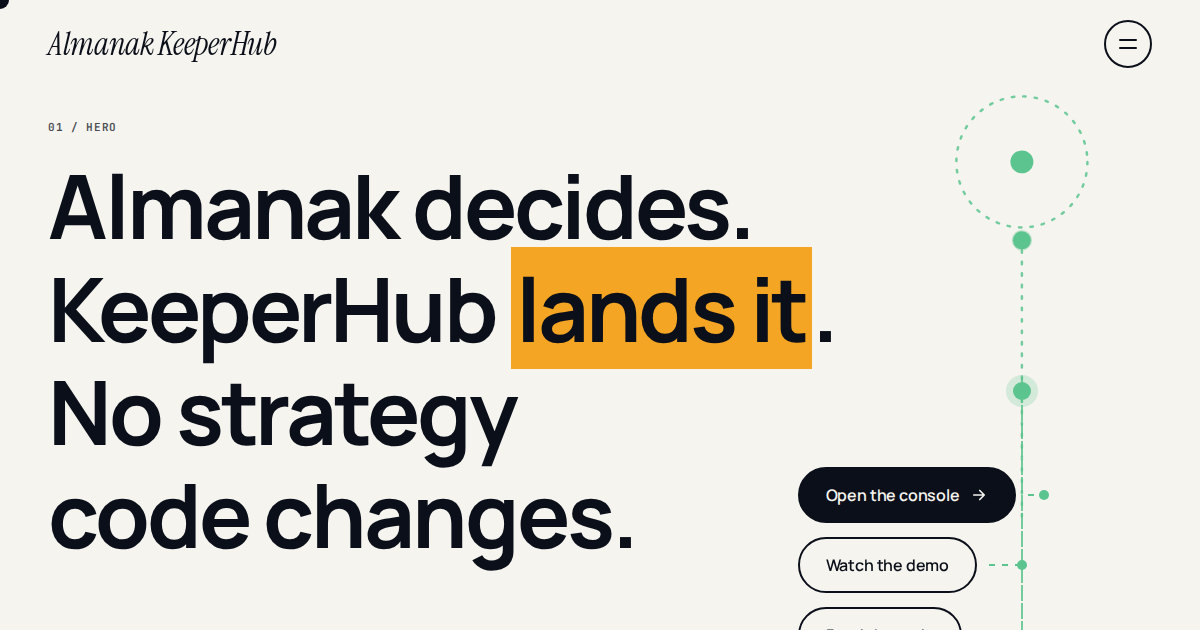
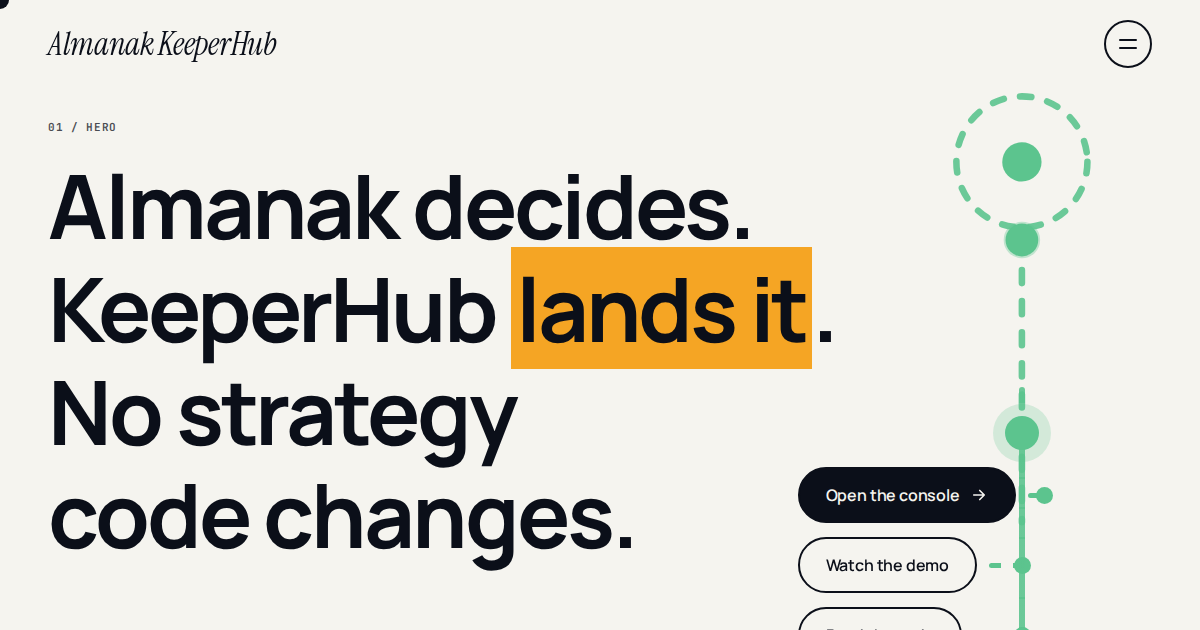
The dashed track at twice the size, and the hero block a little higher
Track 6px with 16px dashes, marker 34px with its halo, the hero pin at an 8px stroke with a bigger origin and
dot, stubs 5px with 17px end dots, the lifecycle route to match. The hero's content sits 56px higher. README
hero and social image retaken.

diff --git a/almanak_keeperhub/console/site.html b/almanak_keeperhub/console/site.html
@@ -221,16 +221,16 @@
   @keyframes draw{to{stroke-dashoffset:0}}
 
   /* ---- hero ---- */
-  .hero{min-height:100vh;display:grid;align-content:end;padding-top:120px;padding-bottom:48px;position:relative}
+  .hero{min-height:100vh;display:grid;align-content:end;padding-top:120px;padding-bottom:104px;position:relative}
   .hero .g{align-items:end}
   .hero .g>*{grid-row:1}
   .hero h1{max-width:none}
   .hero .stops{grid-column:9/span 4;align-self:end;width:63.2%;display:flex;flex-direction:column;gap:14px;margin-bottom:6px;position:relative;z-index:1}
-  .hero .stops::before{content:"";position:absolute;right:-1px;top:-80px;bottom:22px;width:2px;background:repeating-linear-gradient(180deg,var(--mint) 0 8px,transparent 8px 18px);opacity:.85;z-index:-1}
+  .hero .stops::before{content:"";position:absolute;right:-3px;top:-80px;bottom:22px;width:6px;border-radius:3px;background:repeating-linear-gradient(180deg,var(--mint) 0 16px,transparent 16px 30px);opacity:.9;z-index:-1}
   .hero .stop{display:flex;align-items:center}
   .hero .stop .btn{flex:0 0 auto}
-  .hero .stop .stub{flex:1;height:2px;min-width:16px;background:repeating-linear-gradient(90deg,var(--mint) 0 6px,transparent 6px 13px);margin-left:12px;position:relative}
-  .hero .stop .stub::after{content:"";position:absolute;right:-5px;top:-4px;width:10px;height:10px;border-radius:999px;background:var(--mint)}
+  .hero .stop .stub{flex:1;height:5px;min-width:16px;border-radius:3px;background:repeating-linear-gradient(90deg,var(--mint) 0 12px,transparent 12px 24px);margin-left:12px;position:relative}
+  .hero .stop .stub::after{content:"";position:absolute;right:-9px;top:-6px;width:17px;height:17px;border-radius:999px;background:var(--mint)}
   .hero .lede{margin-top:28px;color:var(--muted);font-size:var(--body-lg);line-height:1.5;max-width:52ch}
   .pin{grid-column:10/span 3;justify-self:center;align-self:start;width:min(200px,18vw,26vh);margin-top:-40px}
   .pin svg{width:100%;height:auto;display:block;overflow:visible}
@@ -241,10 +241,10 @@
   @media (max-width:1024px){ .pin{display:none} .cue{display:none} .hero{min-height:auto;padding-top:132px} .hero .stops{grid-column:1/-1;grid-row:2;align-self:start;width:auto;flex-direction:row;flex-wrap:wrap;gap:12px;margin-top:8px} .hero .stops::before{display:none} .hero .stop .stub{display:none} }
 
   /* ---- the connector spine crossing between sections ---- */
-  .spine-v{position:absolute;width:18px;z-index:1;pointer-events:none;left:calc(var(--margin) + (100% - 2 * var(--margin)) * .882 - 9px);--p:0}
-  .spine-v::before{content:"";position:absolute;left:8px;top:0;bottom:0;width:2px;background:repeating-linear-gradient(180deg,var(--mint) 0 8px,transparent 8px 18px);opacity:.85}
-  .spine-v::after{content:"";position:absolute;left:0;top:calc(var(--p) * 100%);width:18px;height:18px;margin-top:-9px;border-radius:999px;background:var(--mint);box-shadow:0 0 0 7px rgba(92,196,142,.22);transition:top 900ms cubic-bezier(.16,1,.3,1)}
-  .spine-v.left{left:calc(var(--margin) + (100% - 2 * var(--margin)) * .315 - 9px)}
+  .spine-v{position:absolute;width:34px;z-index:1;pointer-events:none;left:calc(var(--margin) + (100% - 2 * var(--margin)) * .882 - 17px);--p:0}
+  .spine-v::before{content:"";position:absolute;left:14px;top:0;bottom:0;width:6px;border-radius:3px;background:repeating-linear-gradient(180deg,var(--mint) 0 16px,transparent 16px 30px);opacity:.9}
+  .spine-v::after{content:"";position:absolute;left:0;top:calc(var(--p) * 100%);width:34px;height:34px;margin-top:-17px;border-radius:999px;background:var(--mint);box-shadow:0 0 0 12px rgba(92,196,142,.22);transition:top 900ms cubic-bezier(.16,1,.3,1)}
+  .spine-v.left{left:calc(var(--margin) + (100% - 2 * var(--margin)) * .315 - 17px)}
   @media (max-width:1024px){ .spine-v{display:none} }
 
   /* ---- the problem: statement plus a sticky stack of full-height panels ---- */
@@ -303,9 +303,9 @@
   .diagram svg{width:100%;height:auto;display:block}
   .grid3{display:grid;grid-template-columns:repeat(3,1fr);gap:var(--gutter)}
   .route{position:relative}
-  .route::before{content:"";position:absolute;left:6%;right:6%;top:50%;height:2px;margin-top:-1px;background:repeating-linear-gradient(90deg,var(--mint) 0 8px,transparent 8px 18px);opacity:.85}
+  .route::before{content:"";position:absolute;left:6%;right:6%;top:50%;height:6px;margin-top:-3px;border-radius:3px;background:repeating-linear-gradient(90deg,var(--mint) 0 16px,transparent 16px 30px);opacity:.9}
   .route>.mask{position:relative;z-index:1}
-  @media (max-width:860px){ .route::before{left:50%;right:auto;top:4%;bottom:4%;height:auto;width:2px;margin:0 0 0 -1px;background:repeating-linear-gradient(180deg,var(--mint) 0 8px,transparent 8px 18px)} }
+  @media (max-width:860px){ .route::before{left:50%;right:auto;top:4%;bottom:4%;height:auto;width:6px;margin:0 0 0 -3px;background:repeating-linear-gradient(180deg,var(--mint) 0 16px,transparent 16px 30px)} }
   #failures-grid{grid-template-columns:repeat(auto-fit,minmax(300px,1fr))} .grid2{display:grid;grid-template-columns:1fr 1fr;gap:var(--gutter)}
   @media (max-width:860px){ .grid3,.grid2{grid-template-columns:1fr} }
   .sec-head{margin-bottom:40px;max-width:20ch}
@@ -377,11 +377,11 @@
       <div class="pin" id="pin">
         <svg viewBox="0 0 200 560" fill="none" aria-hidden="true">
           <defs><path id="pin-track" d="M100 194 V540"/></defs>
-          <circle cx="100" cy="100" r="80" stroke="#5CC48E" stroke-width="3" stroke-dasharray="3 11" stroke-linecap="round" opacity=".85"/>
-          <circle cx="100" cy="100" r="14" fill="#5CC48E"/>
-          <path d="M100 194 V540" stroke="#5CC48E" stroke-width="3" stroke-dasharray="3 11" stroke-linecap="round" opacity=".85"/>
-          <circle r="11" fill="#5CC48E"><animateMotion dur="3.6s" repeatCount="indefinite" calcMode="spline" keyTimes="0;1" keySplines=".4 0 .2 1"><mpath href="#pin-track"/></animateMotion></circle>
-          <circle r="11" fill="none" stroke="#5CC48E" stroke-width="2" opacity=".35"><animateMotion dur="3.6s" repeatCount="indefinite" calcMode="spline" keyTimes="0;1" keySplines=".4 0 .2 1"><mpath href="#pin-track"/></animateMotion><animate attributeName="r" values="11;22" dur="3.6s" repeatCount="indefinite"/><animate attributeName="opacity" values=".35;0" dur="3.6s" repeatCount="indefinite"/></circle>
+          <circle cx="100" cy="100" r="80" stroke="#5CC48E" stroke-width="8" stroke-dasharray="14 20" stroke-linecap="round" opacity=".9"/>
+          <circle cx="100" cy="100" r="24" fill="#5CC48E"/>
+          <path d="M100 194 V540" stroke="#5CC48E" stroke-width="8" stroke-dasharray="16 22" stroke-linecap="round" opacity=".9"/>
+          <circle r="20" fill="#5CC48E"><animateMotion dur="3.6s" repeatCount="indefinite" calcMode="spline" keyTimes="0;1" keySplines=".4 0 .2 1"><mpath href="#pin-track"/></animateMotion></circle>
+          <circle r="20" fill="none" stroke="#5CC48E" stroke-width="3" opacity=".35"><animateMotion dur="3.6s" repeatCount="indefinite" calcMode="spline" keyTimes="0;1" keySplines=".4 0 .2 1"><mpath href="#pin-track"/></animateMotion><animate attributeName="r" values="20;38" dur="3.6s" repeatCount="indefinite"/><animate attributeName="opacity" values=".35;0" dur="3.6s" repeatCount="indefinite"/></circle>
         </svg>
       </div>
       <div class="stops" aria-label="Start here">

diff --git a/docs/index.html b/docs/index.html
@@ -221,16 +221,16 @@
   @keyframes draw{to{stroke-dashoffset:0}}
 
   /* ---- hero ---- */
-  .hero{min-height:100vh;display:grid;align-content:end;padding-top:120px;padding-bottom:48px;position:relative}
+  .hero{min-height:100vh;display:grid;align-content:end;padding-top:120px;padding-bottom:104px;position:relative}
   .hero .g{align-items:end}
   .hero .g>*{grid-row:1}
   .hero h1{max-width:none}
   .hero .stops{grid-column:9/span 4;align-self:end;width:63.2%;display:flex;flex-direction:column;gap:14px;margin-bottom:6px;position:relative;z-index:1}
-  .hero .stops::before{content:"";position:absolute;right:-1px;top:-80px;bottom:22px;width:2px;background:repeating-linear-gradient(180deg,var(--mint) 0 8px,transparent 8px 18px);opacity:.85;z-index:-1}
+  .hero .stops::before{content:"";position:absolute;right:-3px;top:-80px;bottom:22px;width:6px;border-radius:3px;background:repeating-linear-gradient(180deg,var(--mint) 0 16px,transparent 16px 30px);opacity:.9;z-index:-1}
   .hero .stop{display:flex;align-items:center}
   .hero .stop .btn{flex:0 0 auto}
-  .hero .stop .stub{flex:1;height:2px;min-width:16px;background:repeating-linear-gradient(90deg,var(--mint) 0 6px,transparent 6px 13px);margin-left:12px;position:relative}
-  .hero .stop .stub::after{content:"";position:absolute;right:-5px;top:-4px;width:10px;height:10px;border-radius:999px;background:var(--mint)}
+  .hero .stop .stub{flex:1;height:5px;min-width:16px;border-radius:3px;background:repeating-linear-gradient(90deg,var(--mint) 0 12px,transparent 12px 24px);margin-left:12px;position:relative}
+  .hero .stop .stub::after{content:"";position:absolute;right:-9px;top:-6px;width:17px;height:17px;border-radius:999px;background:var(--mint)}
   .hero .lede{margin-top:28px;color:var(--muted);font-size:var(--body-lg);line-height:1.5;max-width:52ch}
   .pin{grid-column:10/span 3;justify-self:center;align-self:start;width:min(200px,18vw,26vh);margin-top:-40px}
   .pin svg{width:100%;height:auto;display:block;overflow:visible}
@@ -241,10 +241,10 @@
   @media (max-width:1024px){ .pin{display:none} .cue{display:none} .hero{min-height:auto;padding-top:132px} .hero .stops{grid-column:1/-1;grid-row:2;align-self:start;width:auto;flex-direction:row;flex-wrap:wrap;gap:12px;margin-top:8px} .hero .stops::before{display:none} .hero .stop .stub{display:none} }
 
   /* ---- the connector spine crossing between sections ---- */
-  .spine-v{position:absolute;width:18px;z-index:1;pointer-events:none;left:calc(var(--margin) + (100% - 2 * var(--margin)) * .882 - 9px);--p:0}
-  .spine-v::before{content:"";position:absolute;left:8px;top:0;bottom:0;width:2px;background:repeating-linear-gradient(180deg,var(--mint) 0 8px,transparent 8px 18px);opacity:.85}
-  .spine-v::after{content:"";position:absolute;left:0;top:calc(var(--p) * 100%);width:18px;height:18px;margin-top:-9px;border-radius:999px;background:var(--mint);box-shadow:0 0 0 7px rgba(92,196,142,.22);transition:top 900ms cubic-bezier(.16,1,.3,1)}
-  .spine-v.left{left:calc(var(--margin) + (100% - 2 * var(--margin)) * .315 - 9px)}
+  .spine-v{position:absolute;width:34px;z-index:1;pointer-events:none;left:calc(var(--margin) + (100% - 2 * var(--margin)) * .882 - 17px);--p:0}
+  .spine-v::before{content:"";position:absolute;left:14px;top:0;bottom:0;width:6px;border-radius:3px;background:repeating-linear-gradient(180deg,var(--mint) 0 16px,transparent 16px 30px);opacity:.9}
+  .spine-v::after{content:"";position:absolute;left:0;top:calc(var(--p) * 100%);width:34px;height:34px;margin-top:-17px;border-radius:999px;background:var(--mint);box-shadow:0 0 0 12px rgba(92,196,142,.22);transition:top 900ms cubic-bezier(.16,1,.3,1)}
+  .spine-v.left{left:calc(var(--margin) + (100% - 2 * var(--margin)) * .315 - 17px)}
   @media (max-width:1024px){ .spine-v{display:none} }
 
   /* ---- the problem: statement plus a sticky stack of full-height panels ---- */
@@ -303,9 +303,9 @@
   .diagram svg{width:100%;height:auto;display:block}
   .grid3{display:grid;grid-template-columns:repeat(3,1fr);gap:var(--gutter)}
   .route{position:relative}
-  .route::before{content:"";position:absolute;left:6%;right:6%;top:50%;height:2px;margin-top:-1px;background:repeating-linear-gradient(90deg,var(--mint) 0 8px,transparent 8px 18px);opacity:.85}
+  .route::before{content:"";position:absolute;left:6%;right:6%;top:50%;height:6px;margin-top:-3px;border-radius:3px;background:repeating-linear-gradient(90deg,var(--mint) 0 16px,transparent 16px 30px);opacity:.9}
   .route>.mask{position:relative;z-index:1}
-  @media (max-width:860px){ .route::before{left:50%;right:auto;top:4%;bottom:4%;height:auto;width:2px;margin:0 0 0 -1px;background:repeating-linear-gradient(180deg,var(--mint) 0 8px,transparent 8px 18px)} }
+  @media (max-width:860px){ .route::before{left:50%;right:auto;top:4%;bottom:4%;height:auto;width:6px;margin:0 0 0 -3px;background:repeating-linear-gradient(180deg,var(--mint) 0 16px,transparent 16px 30px)} }
   #failures-grid{grid-template-columns:repeat(auto-fit,minmax(300px,1fr))} .grid2{display:grid;grid-template-columns:1fr 1fr;gap:var(--gutter)}
   @media (max-width:860px){ .grid3,.grid2{grid-template-columns:1fr} }
   .sec-head{margin-bottom:40px;max-width:20ch}
@@ -377,11 +377,11 @@
       <div class="pin" id="pin">
         <svg viewBox="0 0 200 560" fill="none" aria-hidden="true">
           <defs><path id="pin-track" d="M100 194 V540"/></defs>
-          <circle cx="100" cy="100" r="80" stroke="#5CC48E" stroke-width="3" stroke-dasharray="3 11" stroke-linecap="round" opacity=".85"/>
-          <circle cx="100" cy="100" r="14" fill="#5CC48E"/>
-          <path d="M100 194 V540" stroke="#5CC48E" stroke-width="3" stroke-dasharray="3 11" stroke-linecap="round" opacity=".85"/>
-          <circle r="11" fill="#5CC48E"><animateMotion dur="3.6s" repeatCount="indefinite" calcMode="spline" keyTimes="0;1" keySplines=".4 0 .2 1"><mpath href="#pin-track"/></animateMotion></circle>
-          <circle r="11" fill="none" stroke="#5CC48E" stroke-width="2" opacity=".35"><animateMotion dur="3.6s" repeatCount="indefinite" calcMode="spline" keyTimes="0;1" keySplines=".4 0 .2 1"><mpath href="#pin-track"/></animateMotion><animate attributeName="r" values="11;22" dur="3.6s" repeatCount="indefinite"/><animate attributeName="opacity" values=".35;0" dur="3.6s" repeatCount="indefinite"/></circle>
+          <circle cx="100" cy="100" r="80" stroke="#5CC48E" stroke-width="8" stroke-dasharray="14 20" stroke-linecap="round" opacity=".9"/>
+          <circle cx="100" cy="100" r="24" fill="#5CC48E"/>
+          <path d="M100 194 V540" stroke="#5CC48E" stroke-width="8" stroke-dasharray="16 22" stroke-linecap="round" opacity=".9"/>
+          <circle r="20" fill="#5CC48E"><animateMotion dur="3.6s" repeatCount="indefinite" calcMode="spline" keyTimes="0;1" keySplines=".4 0 .2 1"><mpath href="#pin-track"/></animateMotion></circle>
+          <circle r="20" fill="none" stroke="#5CC48E" stroke-width="3" opacity=".35"><animateMotion dur="3.6s" repeatCount="indefinite" calcMode="spline" keyTimes="0;1" keySplines=".4 0 .2 1"><mpath href="#pin-track"/></animateMotion><animate attributeName="r" values="20;38" dur="3.6s" repeatCount="indefinite"/><animate attributeName="opacity" values=".35;0" dur="3.6s" repeatCount="indefinite"/></circle>
         </svg>
       </div>
       <div class="stops" aria-label="Start here">
